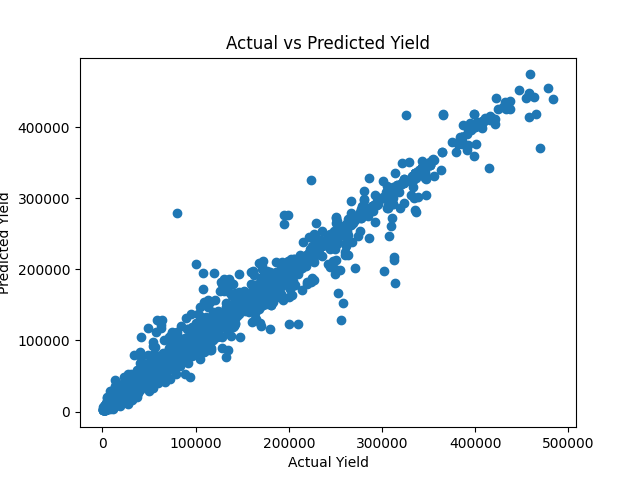
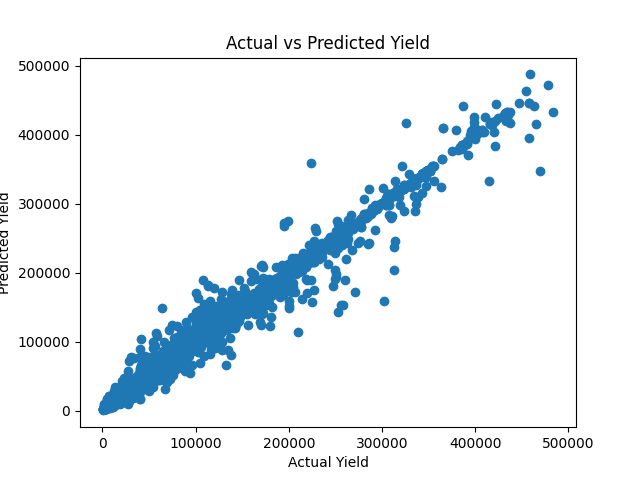
Added images to README

diff --git a/crop_model.py b/crop_model.py
@@ -24,15 +24,13 @@ print(data.head())
 # Handle missing values
 data = data.dropna()
 
-# Encode categorical columns
-le = LabelEncoder()
+# Drop unnecessary columns
+data = data.drop("Unnamed: 0", axis=1)
 
-for col in data.columns:
-    if data[col].dtype == 'object':
-        data[col] = le.fit_transform(data[col])
+# Encode categorical columns using one-hot encoding for better performance
+data = pd.get_dummies(data, columns=['Area', 'Item'], drop_first=True)
 
 # Separate features & target
-# Change 'yield' if column name different
 X = data.drop("hg/ha_yield", axis=1)
 y = data["hg/ha_yield"]
 
@@ -46,13 +44,13 @@ plt.figure()
 sns.scatterplot(x=data['average_rain_fall_mm_per_year'], y=data['hg/ha_yield'])
 plt.title("Rainfall vs Yield")
 plt.savefig("rainfall_vs_yield.png")
-plt.show()
+# plt.show()  # Removed to avoid blocking in terminal
 
 plt.figure()
 sns.scatterplot(x=data['avg_temp'], y=data['hg/ha_yield'])
 plt.title("Temperature vs Yield")
 plt.savefig("temp_vs_yield.png")
-plt.show()
+# plt.show()  # Removed to avoid blocking in terminal
 
 # 5. Train-Test Split
 
@@ -62,7 +60,7 @@ X_train, X_test, y_train, y_test = train_test_split(
 
 # 6. Model Training
 
-model = RandomForestRegressor(n_estimators=50)
+model = RandomForestRegressor(n_estimators=20, random_state=42)
 model.fit(X_train, y_train)
 
 print("Model Trained ✅")
@@ -90,7 +88,7 @@ plt.xlabel("Actual Yield")
 plt.ylabel("Predicted Yield")
 plt.title("Actual vs Predicted Yield")
 plt.savefig("actual_vs_predicted.png")
-plt.show()
+# plt.show()  # Removed to avoid blocking in terminal
 
 # 10. Farmer Recommendation
 
